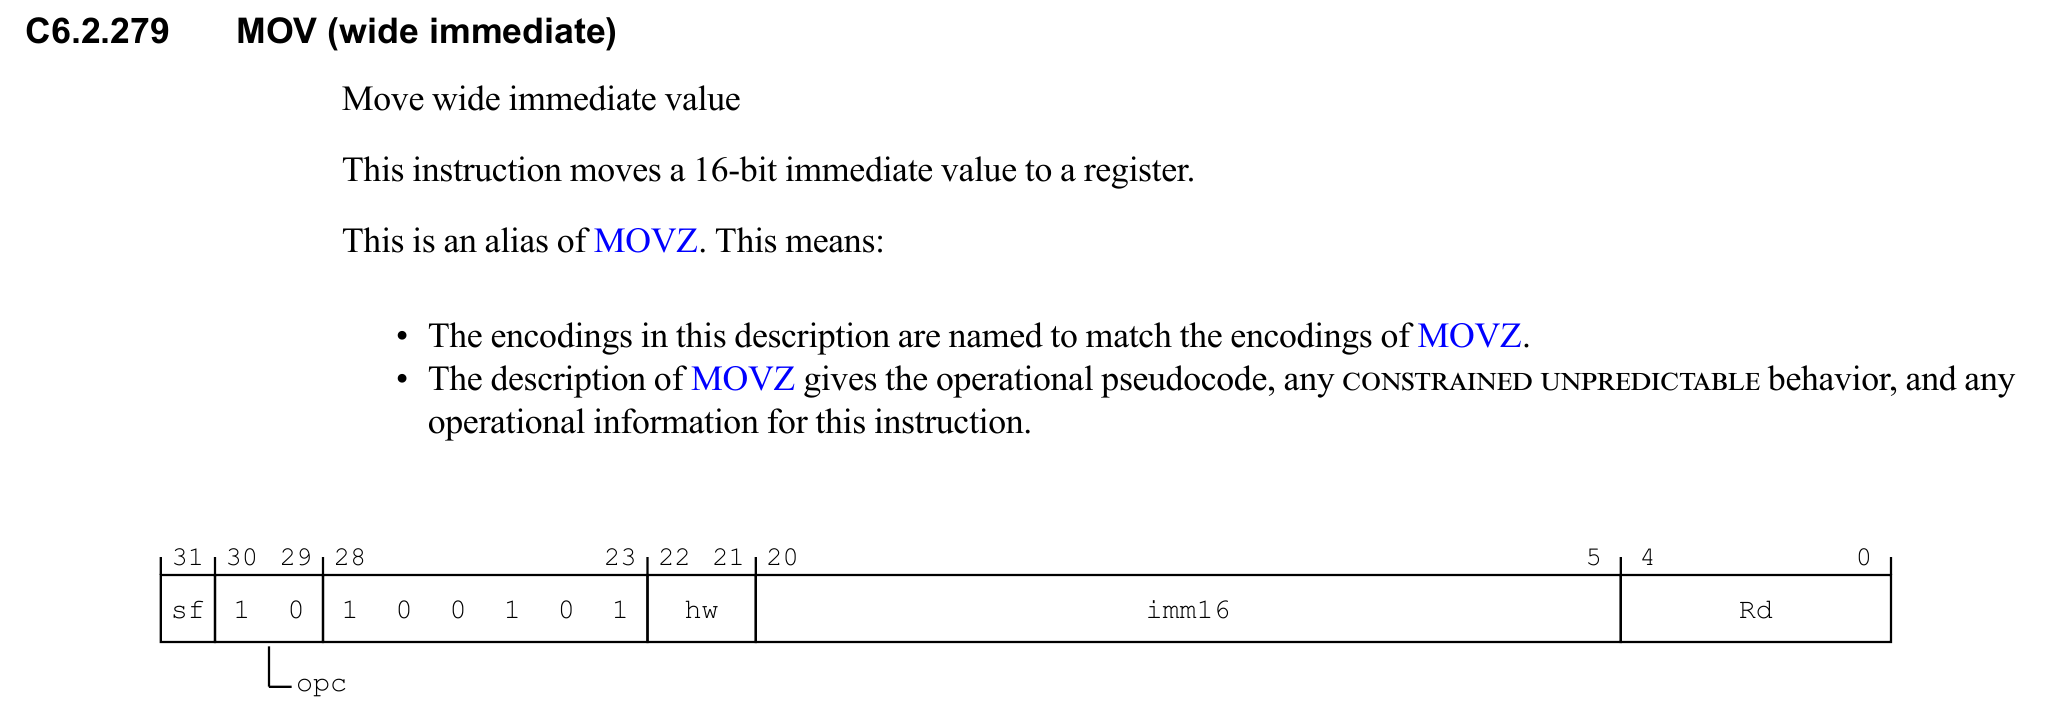
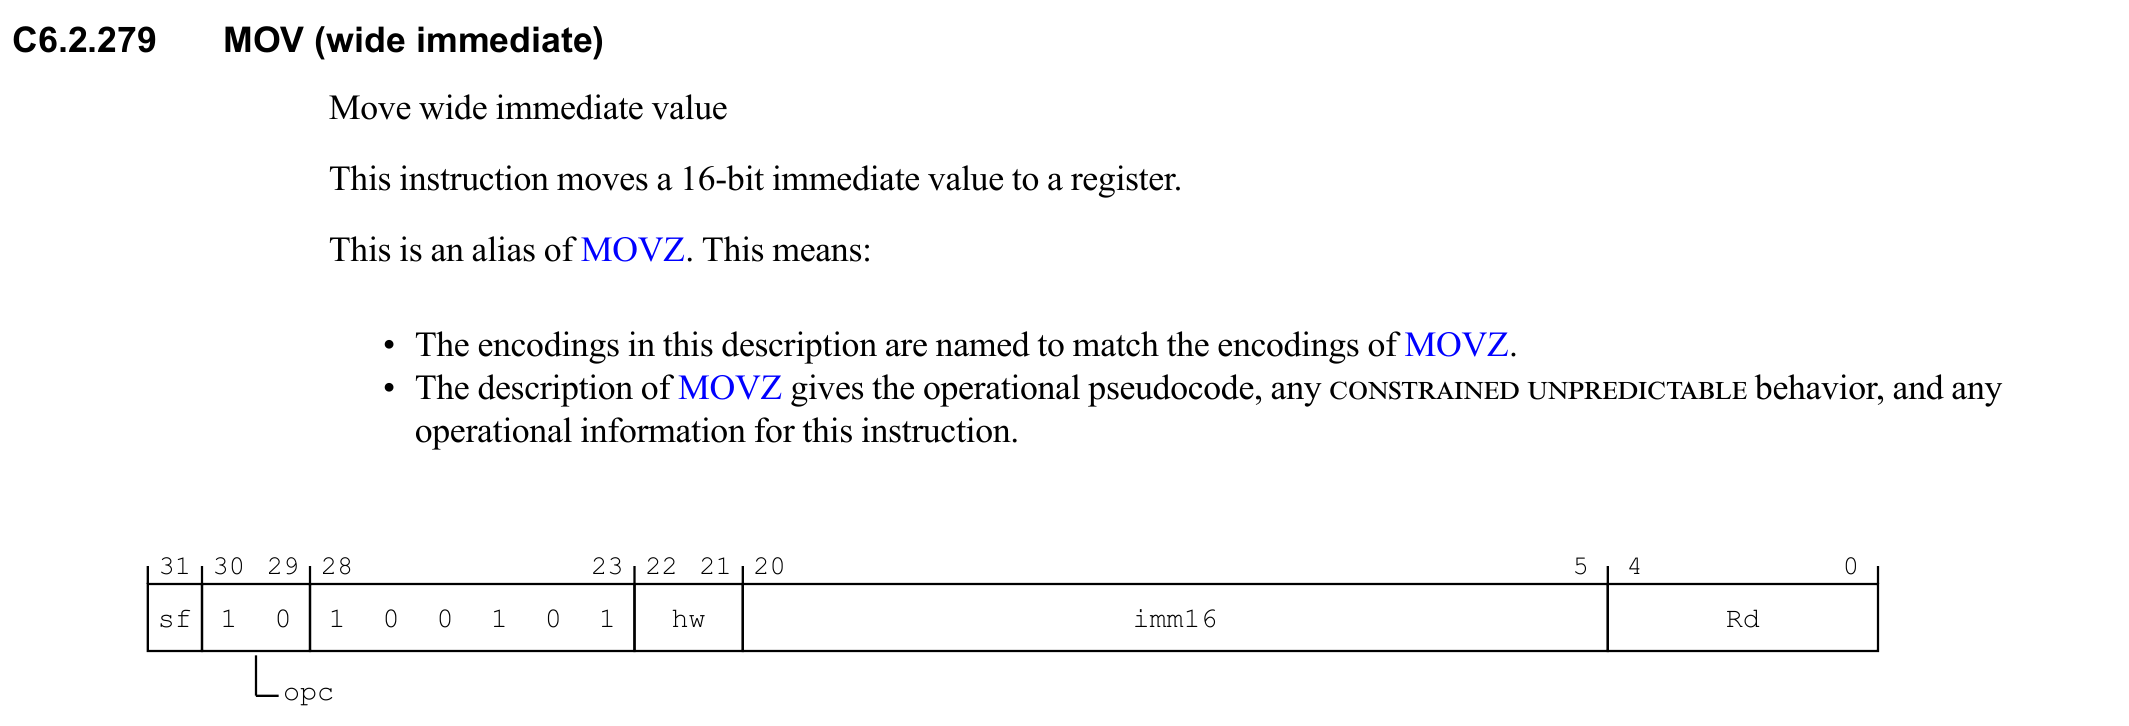
Update from https://github.com/human-mean/embedded-blog/commit/189279fe56deb97bb939441394ac7df816b292cb

diff --git a/posts/arm64-hypervisor学习记录/arm64启动流程/index.html b/posts/arm64-hypervisor学习记录/arm64启动流程/index.html
@@ -126,7 +126,7 @@ _start:
 /*
 传递栈顶地址给sp
  */
-</code></pre><h4 id=为什么不能直接写mov-x0-_stack_top>为什么不能直接写<code>mov x0, _stack_top</code>?<a hidden class=anchor aria-hidden=true href=#为什么不能直接写mov-x0-_stack_top>#</a></h4><blockquote><p>查阅数据手册可以知道，MOV指令立即数最大就是16位，无法通过一次指令表示<code>0x40010000</code>这种任意地址</p></blockquote><p><img loading=lazy src=mov.png></p></div><footer class=post-footer><ul class=post-tags></ul></footer></article></main><footer class=footer><span>&copy; 2026 <a href=https://human-mean.github.io/>嵌入式学习笔记</a></span> ·
+</code></pre><h4 id=为什么不能直接写mov-x0-_stack_top>为什么不能直接写<code>mov x0, _stack_top</code>?<a hidden class=anchor aria-hidden=true href=#为什么不能直接写mov-x0-_stack_top>#</a></h4><blockquote><p>查阅数据手册可以知道，MOV指令立即数最大就是16位，无法通过一次指令表示<code>0x40010000</code>这种任意地址</p></blockquote><p><img alt=MOV指令说明 loading=lazy src=images/mov.png></p></div><footer class=post-footer><ul class=post-tags></ul></footer></article></main><footer class=footer><span>&copy; 2026 <a href=https://human-mean.github.io/>嵌入式学习笔记</a></span> ·
 <span>Powered by
 <a href=https://gohugo.io/ rel="noopener noreferrer" target=_blank>Hugo</a> &
 <a href=https://github.com/adityatelange/hugo-PaperMod/ rel=noopener target=_blank>PaperMod</a></span></footer><a href=#top aria-label="go to top" title="Go to Top (Alt + G)" class=top-link id=top-link accesskey=g><svg viewBox="0 0 12 6" fill="currentColor"><path d="M12 6H0l6-6z"/></svg>
